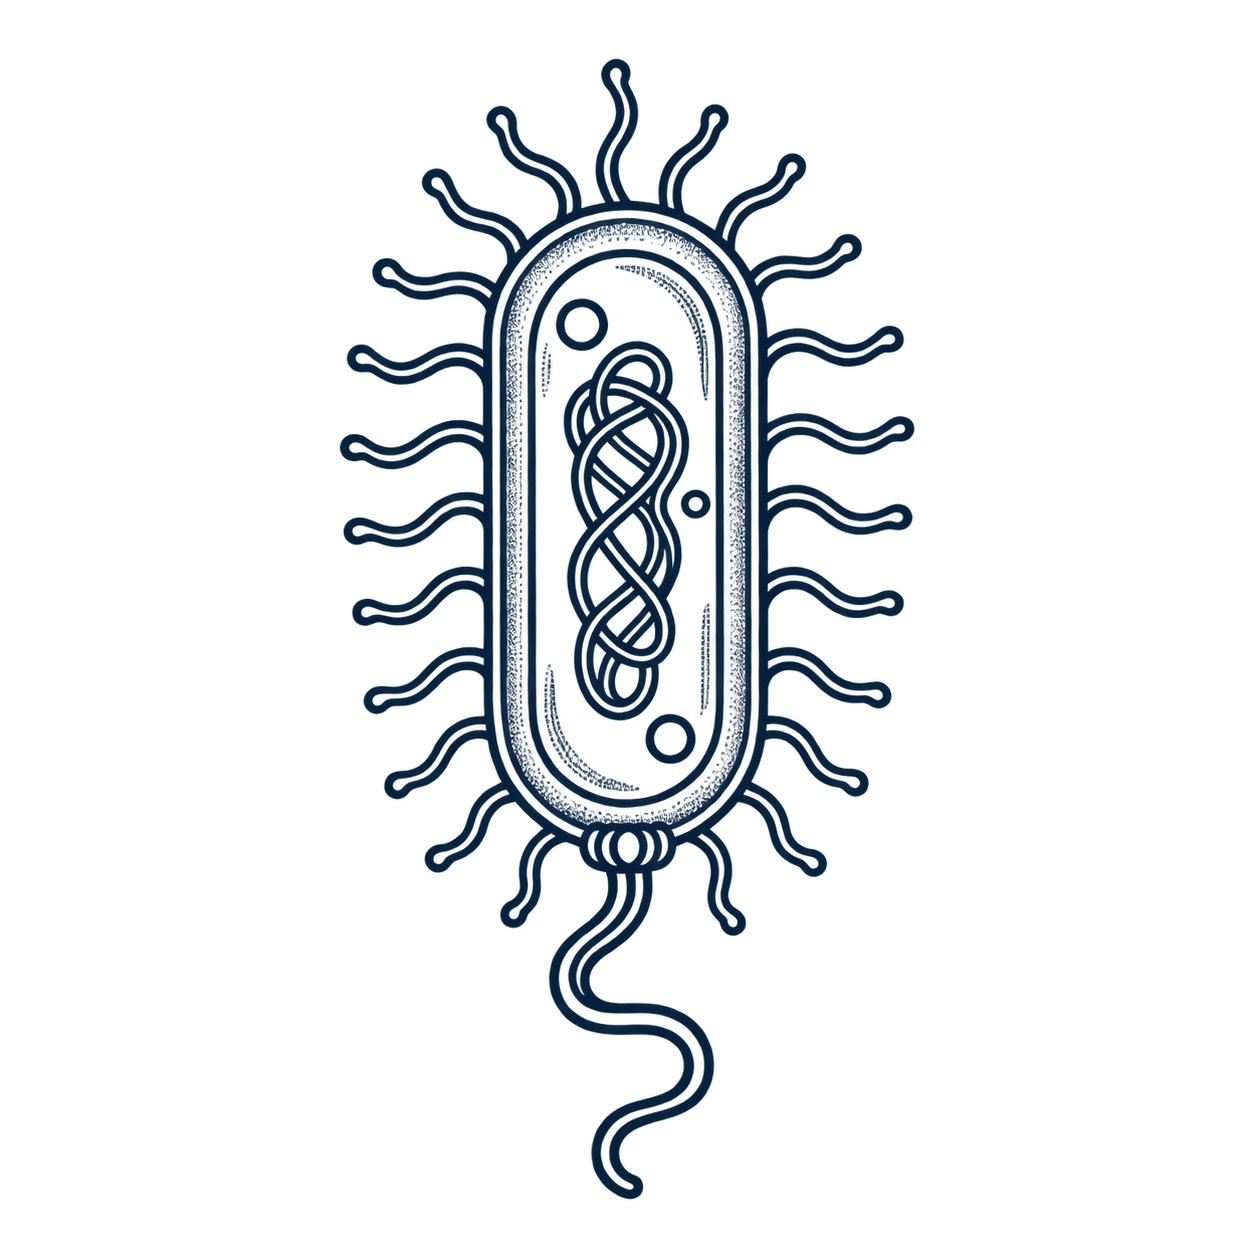
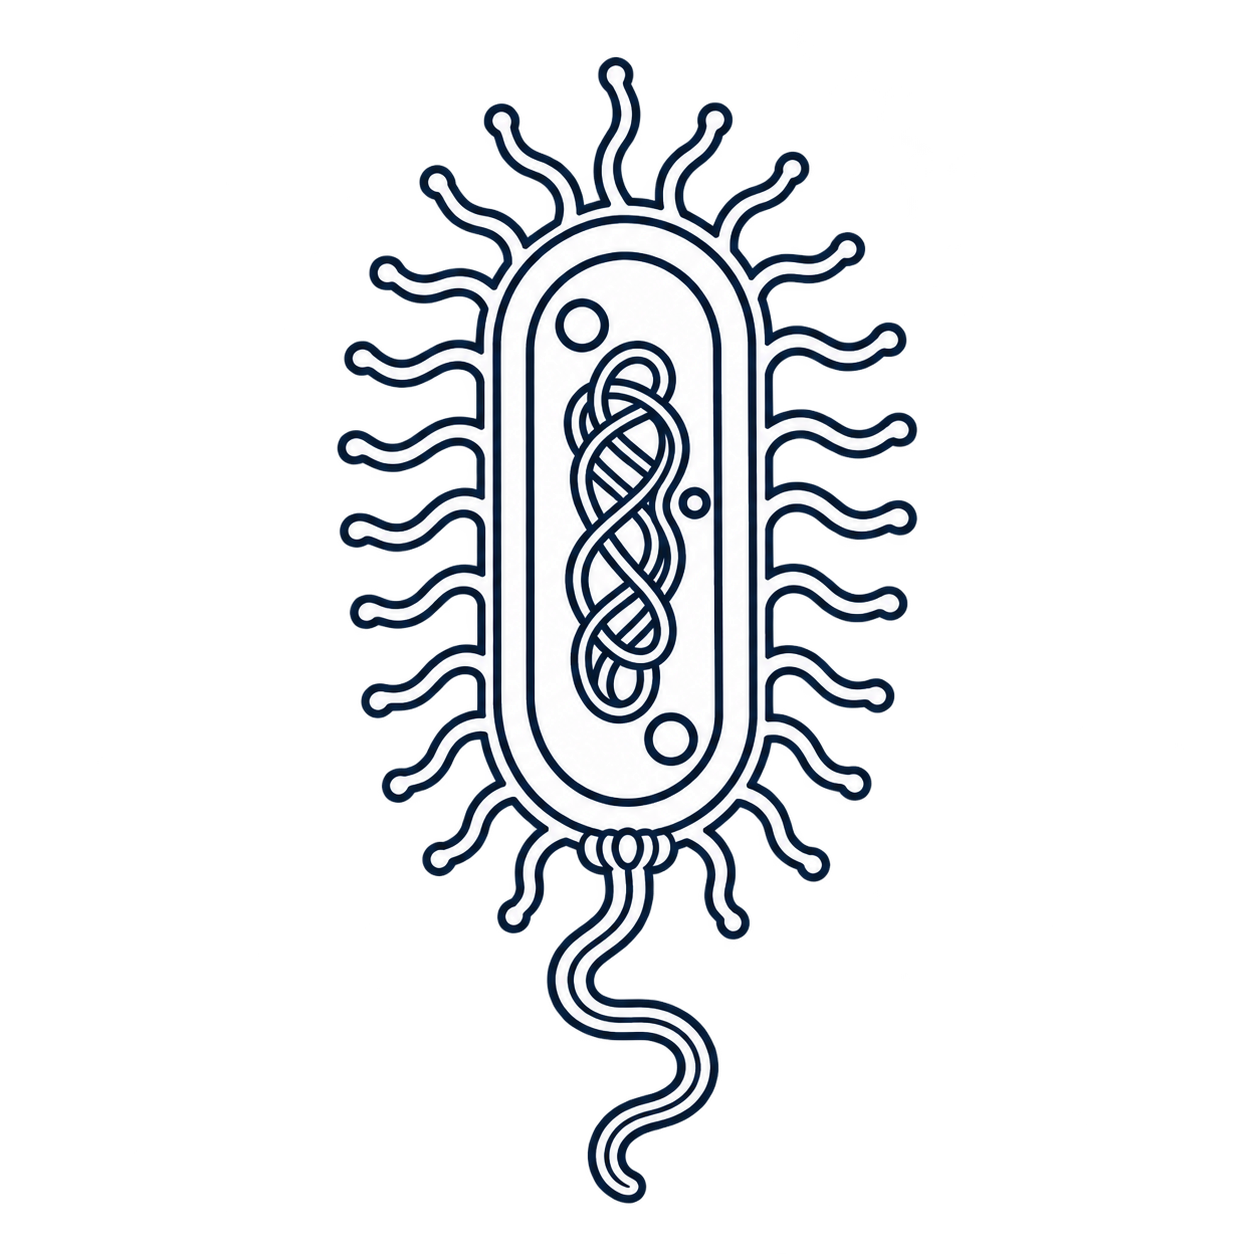
Fill and enlarge foreground bacterium

Changed region(s): [[0.2488, 0.0311, 0.7464, 0.9641]]

diff --git a/sites/pathogen-atlas-explorer/index.html b/sites/pathogen-atlas-explorer/index.html
@@ -7,7 +7,7 @@
   <style>
     :root{color-scheme:light;--ink:#132a43;--muted:#63758b;--line:#dce5ed;--canvas:#f1f5f6;--surface:#fff;--teal:#14756e;--teal-dark:#0f625d;--mint:#eaf5f2;--shadow:0 8px 28px rgba(24,49,69,.055)}
     *{box-sizing:border-box}body{margin:0;background:var(--canvas);color:var(--ink);font-family:Inter,-apple-system,BlinkMacSystemFont,"Segoe UI",Arial,sans-serif;-webkit-font-smoothing:antialiased}
-    .shell{max-width:1780px;margin:0 auto;padding:30px clamp(18px,3vw,48px) 42px}.page-title{display:flex;align-items:flex-end;gap:clamp(10px,1.8vw,22px);font-size:clamp(34px,6vw,72px);letter-spacing:-.05em;line-height:1.02;margin:0 0 14px}.title-mark{display:block;position:relative;width:1.5em;height:1.5em;flex:0 0 auto;align-self:center;transform:translateY(.33em)}.title-globe,.title-bacterium{position:absolute;inset:0;display:block;width:100%;height:100%;object-fit:contain}.title-bacterium{z-index:1}.page-title span{display:block;min-width:0}.page-title .title-version{display:inline-block;vertical-align:baseline;margin-left:.4em;color:#8b98a5;font-size:.22em;font-weight:550;letter-spacing:0;line-height:1;white-space:nowrap}.title-authors{margin-left:auto;align-self:flex-end;position:relative;top:-5px;color:#8293a2;font-size:12px;font-weight:500;letter-spacing:0;line-height:1.2;white-space:nowrap}.title-authors a{color:#111;text-decoration:none}.title-authors a:hover,.title-authors a:focus-visible{color:#111;text-decoration:underline;text-underline-offset:2px}.title-authors .author-link-glyph{display:inline-block;margin-left:2px;color:#8293a2;font-size:.9em;text-decoration:none}.intro{margin:0;color:var(--muted);font-size:14px;line-height:1.65;max-width:980px}
+    .shell{max-width:1780px;margin:0 auto;padding:30px clamp(18px,3vw,48px) 42px}.page-title{display:flex;align-items:flex-end;gap:clamp(10px,1.8vw,22px);font-size:clamp(34px,6vw,72px);letter-spacing:-.05em;line-height:1.02;margin:0 0 14px}.title-mark{display:block;position:relative;width:1.5em;height:1.5em;flex:0 0 auto;align-self:center;transform:translateY(.33em)}.title-globe,.title-bacterium{position:absolute;inset:0;display:block;width:100%;height:100%;object-fit:contain}.title-bacterium{z-index:1;transform:scale(1.12)}.page-title span{display:block;min-width:0}.page-title .title-version{display:inline-block;vertical-align:baseline;margin-left:.4em;color:#8b98a5;font-size:.22em;font-weight:550;letter-spacing:0;line-height:1;white-space:nowrap}.title-authors{margin-left:auto;align-self:flex-end;position:relative;top:-5px;color:#8293a2;font-size:12px;font-weight:500;letter-spacing:0;line-height:1.2;white-space:nowrap}.title-authors a{color:#111;text-decoration:none}.title-authors a:hover,.title-authors a:focus-visible{color:#111;text-decoration:underline;text-underline-offset:2px}.title-authors .author-link-glyph{display:inline-block;margin-left:2px;color:#8293a2;font-size:.9em;text-decoration:none}.intro{margin:0;color:var(--muted);font-size:14px;line-height:1.65;max-width:980px}
     .workspace{display:grid;grid-template-columns:minmax(0,1.75fr) minmax(350px,.78fr);gap:16px;align-items:start;margin-top:32px}.card{background:var(--surface);border:1px solid var(--line);border-radius:15px;box-shadow:var(--shadow);min-width:0;overflow:hidden}.chart-card{padding:0}.panel-heading{display:grid;grid-template-columns:1fr;gap:14px;padding:18px 24px 20px}.coverage-summary{display:flex;flex-direction:column;align-items:flex-start;gap:4px;min-width:0}.coverage-kicker{color:var(--muted);font-size:9px;font-weight:730;letter-spacing:.09em;text-transform:uppercase}.coverage-host{min-width:0;color:var(--ink);font-size:19px;font-weight:760;line-height:1.25;letter-spacing:-.03em;overflow-wrap:anywhere}.coverage-pathogen{color:var(--teal-dark)}.panel-metrics{display:grid;grid-template-columns:repeat(6,minmax(0,1fr));align-items:stretch}.metric{min-width:0;display:flex;flex-direction:column;justify-content:center;gap:5px;min-height:70px;padding:3px 16px;border-left:1px solid var(--line);text-align:left}.metric:first-child{border-left:0;padding-left:0}.panel-metrics .metric:nth-child(2){border-left:0}.metric-highlight{border:1px solid #cbe5dd;border-radius:9px;background:#eaf5f2;padding:12px 14px}.panel-metrics .metric-highlight:first-child{margin:2px 12px 2px 0;border-left:1px solid #cbe5dd;padding-left:14px}.metric-highlight .metric-value{color:var(--teal-dark)}.metric-value{display:block;color:var(--teal-dark);font-size:19px;font-weight:760;letter-spacing:-.035em;font-variant-numeric:tabular-nums;white-space:nowrap}.metric-label{display:block;color:var(--muted);font-size:10px;line-height:1.35}.taxonomy-provenance{color:#708191;font-size:9px;line-height:1.5;margin-top:-7px;text-align:right}.taxonomy-provenance a{color:#33586a;font-weight:650;text-decoration:underline;text-decoration-color:#b8cbd2;text-underline-offset:2px}.taxonomy-provenance a:hover{color:var(--teal-dark)}.metric-atlas .metric-value{color:#526b78}.metric-atlas .metric-label{color:#708191}.plot-count{display:none}
     .explorer-controls{padding:15px 20px 14px;background:#f8fafb;border-top:1px solid #edf1f3;border-bottom:1px solid #e9eef0}.control-grid{display:grid;grid-template-columns:minmax(220px,.82fr) minmax(180px,.72fr) minmax(220px,1fr) minmax(220px,1.15fr);gap:14px;align-items:start}.field.group-field{display:block;width:100%;min-width:0;margin:0;padding:0;border:0}.field label{display:block;font-size:10px;font-weight:720;color:#52677b;margin:0 0 6px}.field input,.field select{width:100%;height:40px;border:1px solid #d6e0e6;border-radius:8px;background:#fff;padding:0 11px;color:var(--ink);font:inherit;font-size:12px;transition:border-color .15s,box-shadow .15s}.field input:focus,.field select:focus,.appearance-menu select:focus{outline:3px solid rgba(20,117,110,.15);border-color:#54968f}.field select:disabled{background:#f0f3f5;color:#98a5ad;cursor:not-allowed}.color-picker{position:relative;width:100%}.color-native-select{position:absolute!important;width:1px!important;height:1px!important;padding:0!important;margin:-1px!important;overflow:hidden!important;clip:rect(0,0,0,0)!important;white-space:nowrap!important;border:0!important}.color-trigger{display:flex;align-items:center;justify-content:space-between;width:100%;height:40px;padding:0 11px;border:1px solid #d6e0e6;border-radius:8px;background:#fff;color:var(--ink);font:inherit;font-size:12px;text-align:left;cursor:pointer}.color-trigger:focus-visible{outline:3px solid rgba(20,117,110,.15);border-color:#54968f}.color-chevron{color:#718697;font-size:14px}.color-menu{position:fixed;z-index:1000;max-height:min(70vh,620px);overflow:auto;padding:6px 0;border:1px solid #d6e0e6;border-radius:10px;background:#fff;box-shadow:0 12px 30px rgba(24,49,69,.2)}.color-menu-group{padding:10px 14px 5px;color:#52677b;font-size:12px;font-weight:700;line-height:1.35}.host-menu-scientific{color:#82919c;font-size:.92em;font-weight:450}.color-menu-option{position:relative;padding:7px 14px 7px 34px;color:#253b4a;font-size:12px;line-height:1.35;cursor:pointer}.color-menu-option:hover,.color-menu-option:focus{outline:none;background:#edf7f5}.color-menu-option[aria-selected="true"]:before{position:absolute;left:13px;content:"✓";color:#253b4a;font-weight:700}.color-menu-option[aria-disabled="true"]{color:#b7c0c6;cursor:not-allowed}.color-menu-option.feature-unavailable,.color-menu-option.feature-unavailable .host-menu-scientific{color:#99a5ae}#host-picker.feature-unavailable>.color-trigger,#group-picker.feature-unavailable>.color-trigger{color:#8796a1;background:#f5f7f8}.color-menu-option[aria-disabled="true"] .host-menu-scientific{color:inherit}.color-menu-option[aria-disabled="true"]:hover,.color-menu-option[aria-disabled="true"]:focus{background:transparent}.control-options{display:flex;align-items:center;justify-content:space-between;gap:16px;margin-top:13px}.toggle-row{display:flex;align-items:center;gap:20px;flex-wrap:wrap}.minimum-filter{display:inline-flex;align-items:center;gap:8px;color:#53697d;font-size:11px;font-weight:620}.minimum-filter label{white-space:nowrap}.minimum-filter input{width:74px;height:30px;border:1px solid #d6e0e6;border-radius:7px;background:#fff;padding:0 8px;color:var(--ink);font:inherit;font-size:11px}.minimum-filter input:focus{outline:3px solid rgba(20,117,110,.15);border-color:#54968f}.size-toggle{display:inline-flex;align-items:center;gap:8px;min-height:28px;color:#53697d;font-size:11px;font-weight:620;cursor:pointer}.size-toggle input{width:15px;height:15px;margin:0;accent-color:var(--teal)}@font-face{font-family:"Bootstrap Icons";src:url("./assets/fonts/bootstrap-icons.woff2") format("woff2");font-display:swap}.bi{display:inline-block;font-family:"Bootstrap Icons"!important;font-size:18px;font-style:normal;font-weight:normal!important;line-height:1;vertical-align:-.125em;-webkit-font-smoothing:antialiased}.appearance-menu>summary .bi,.button .bi{font-size:14px;flex:0 0 auto}.bi-sliders::before{content:"\f56b"}.bi-house-door::before{content:"\f423"}.bi-download::before{content:"\f30a"}.button,.appearance-menu>summary{gap:7px}.button{height:34px;border:1px solid #d3dfe4;border-radius:8px;padding:0 12px;background:white;color:#33586a;font-weight:650;font-size:11px;cursor:pointer;transition:background .15s,border-color .15s}.button:hover{background:#eef6f4;border-color:#b9d4ce}
     .control-actions{display:flex;align-items:center;gap:9px}.control-actions .button,.control-actions .appearance-menu>summary{display:inline-flex;align-items:center;justify-content:center;gap:8px;padding-right:12px;padding-left:12px;text-align:center}.control-actions .bi{display:inline-grid;place-items:center;width:18px;height:18px;flex:0 0 18px}.button:disabled{opacity:.5;cursor:not-allowed}.appearance-menu{position:relative;z-index:20;flex:0 0 auto}.appearance-menu>summary{display:inline-flex;align-items:center;justify-content:center;gap:7px;height:34px;padding:0 11px;border:1px solid #d3dfe4;border-radius:8px;background:#fff;color:#33586a;font:inherit;font-size:11px;font-weight:650;white-space:nowrap;cursor:pointer;list-style:none;transition:background .15s,border-color .15s}.appearance-menu>summary::-webkit-details-marker{display:none}.appearance-menu>summary:hover,.appearance-menu[open]>summary{background:#eef6f4;border-color:#b9d4ce}.appearance-menu>summary:focus-visible{outline:3px solid rgba(20,117,110,.18);outline-offset:2px}.appearance-popover{position:absolute;top:calc(100% + 8px);right:0;width:min(300px,calc(100vw - 42px));padding:13px;border:1px solid #d7e2e6;border-radius:10px;background:#fff;box-shadow:0 10px 28px rgba(24,49,69,.18);z-index:30}.appearance-popover .field{margin-bottom:18px}.appearance-popover .field select{height:36px}.appearance-popover .size-toggle{font-size:10px}.appearance-popover .size-toggle+.size-toggle{margin-top:8px}.color-description{padding:12px 20px 0;color:#4b6172;font-size:11px;line-height:1.5}.color-description .small{color:#91a0ad;font-size:10px}
@@ -105,7 +105,7 @@
   </style>
 </head>
 <body><main class="shell">
-  <h1 class="page-title"><span class="title-mark" aria-hidden="true"><img class="title-globe" src="assets/pathogen-atlas-v4-globe.svg?v=20261103-circle-globe-thick" alt=""><img class="title-bacterium" src="assets/pathogen-atlas-v4-bacterium.png?v=20261103-bacterium" alt=""></span><span class="title-name">Pathogen Atlas<span class="title-version">v4.0.50</span></span><span class="title-authors">Authors: <a href="https://experts.exeter.ac.uk/25979-fabrizio-costa" target="_blank" rel="noopener noreferrer">Fabrizio Costa<span class="author-link-glyph" aria-hidden="true">↗</span></a>&nbsp;&nbsp;<a href="https://experts.exeter.ac.uk/20530-michiel-vos" target="_blank" rel="noopener noreferrer">Michiel Vos<span class="author-link-glyph" aria-hidden="true">↗</span></a></span></h1>
+  <h1 class="page-title"><span class="title-mark" aria-hidden="true"><img class="title-globe" src="assets/pathogen-atlas-v4-globe.svg?v=20261103-circle-globe-thick" alt=""><img class="title-bacterium" src="assets/pathogen-atlas-v4-bacterium.png?v=20261103-bacterium-white-fill" alt=""></span><span class="title-name">Pathogen Atlas<span class="title-version">v4.0.51</span></span><span class="title-authors">Authors: <a href="https://experts.exeter.ac.uk/25979-fabrizio-costa" target="_blank" rel="noopener noreferrer">Fabrizio Costa<span class="author-link-glyph" aria-hidden="true">↗</span></a>&nbsp;&nbsp;<a href="https://experts.exeter.ac.uk/20530-michiel-vos" target="_blank" rel="noopener noreferrer">Michiel Vos<span class="author-link-glyph" aria-hidden="true">↗</span></a></span></h1>
   <div class="workspace">
     <section class="card chart-card" aria-label="Interactive species map and taxonomy catalog">
       <div class="panel-heading">

diff --git a/pathogen_atlas_v4/__init__.py b/pathogen_atlas_v4/__init__.py
@@ -1,3 +1,3 @@
 """Host-aware Pathogen Atlas V4 foundations."""
 
-__version__ = "4.0.50"
+__version__ = "4.0.51"

diff --git a/CHANGELOG.md b/CHANGELOG.md
@@ -1,5 +1,9 @@
 # Changelog
 
+## [4.0.51] - 2026-11-03
+
+- Give the foreground bacterium opaque white interiors and enlarge it to extend beyond the sphere.
+
 ## [4.0.50] - 2026-11-03
 
 - Overlay the bacterium as a separate image over the SVG globe and thicken the outer circle.
